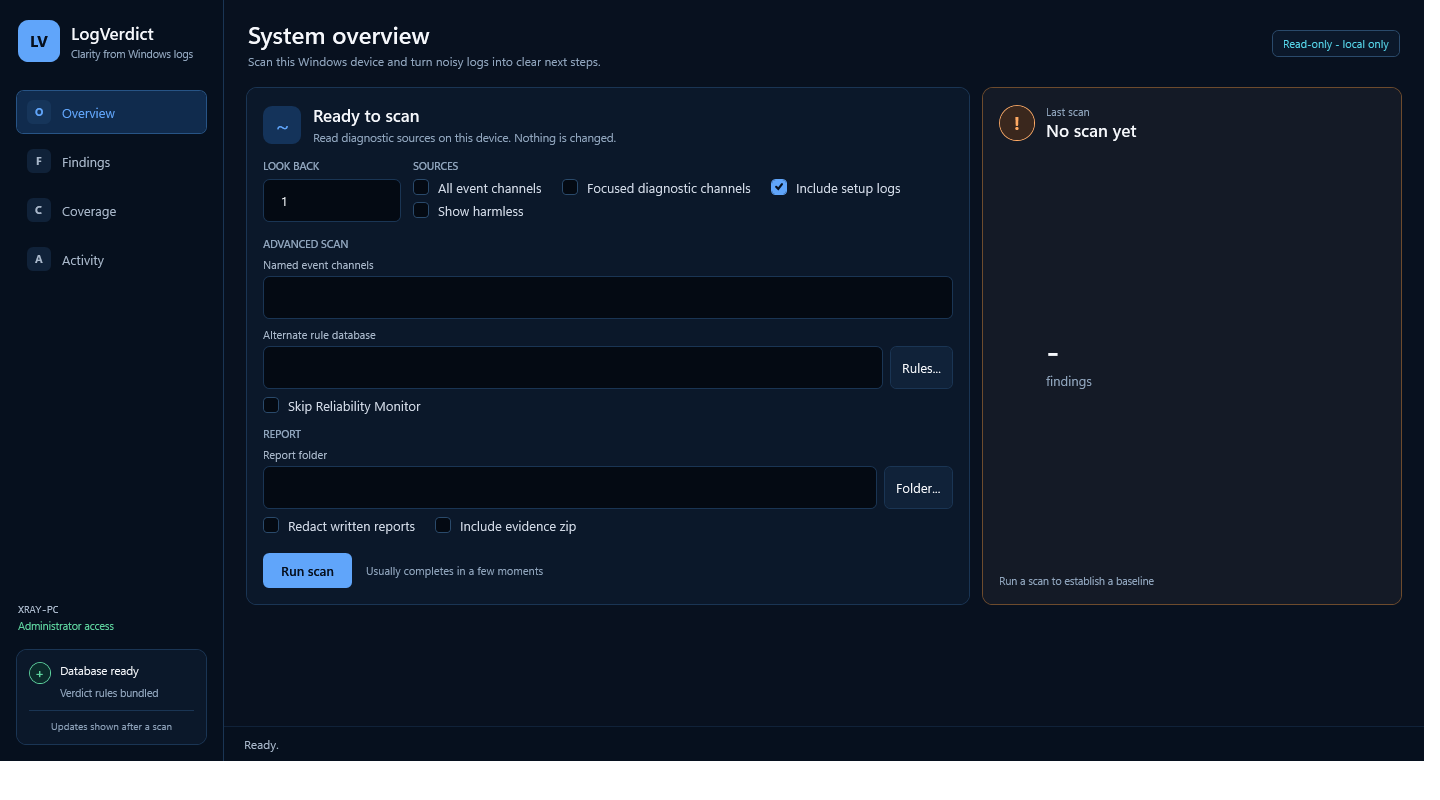
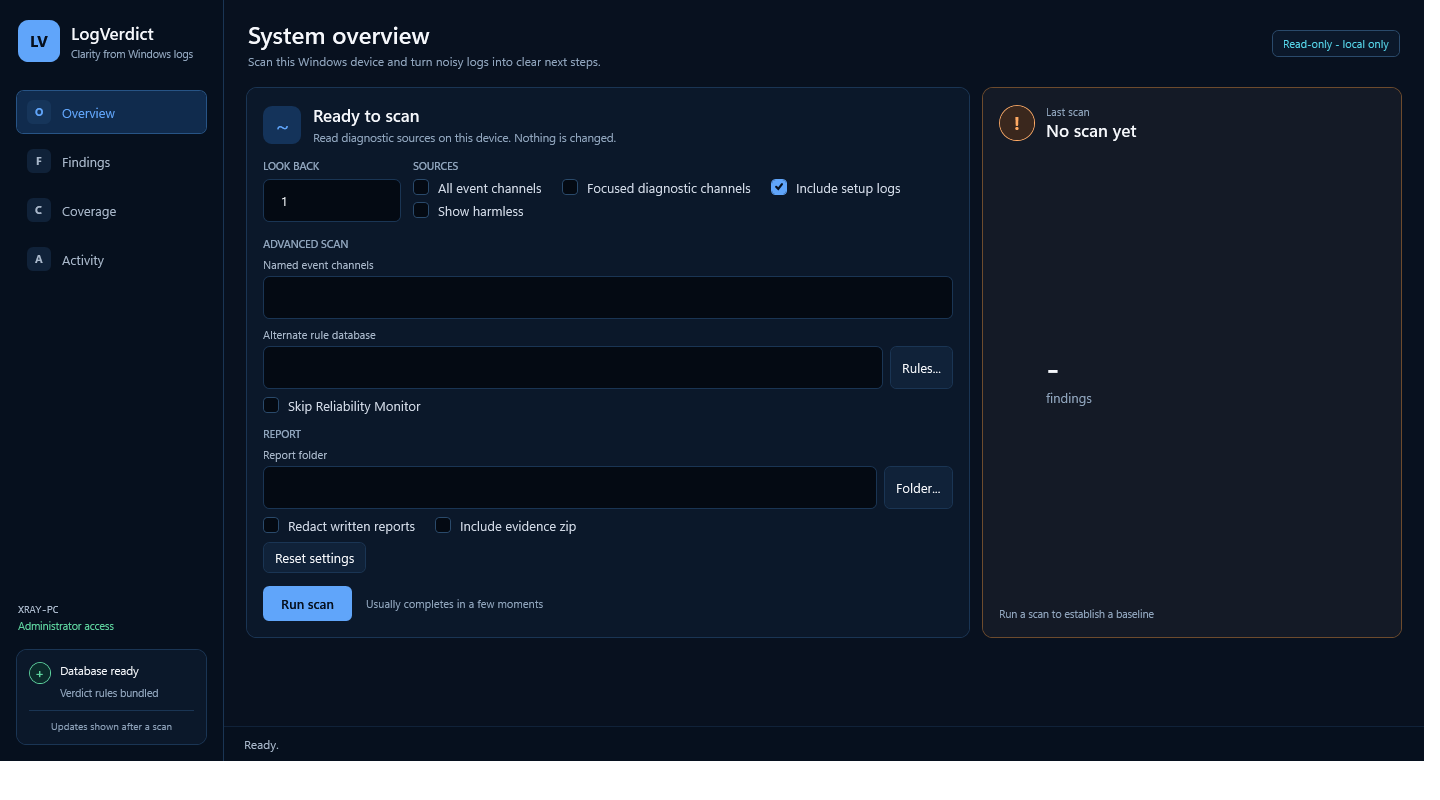
feat(gui): add settings reset and support matrix

Changed region(s): [[0.1562, 0.6875, 0.375, 0.7812], [0.6875, 0.7188, 0.8125, 0.7812], [0.7188, 0.4688, 0.75, 0.5]]

diff --git a/README.md b/README.md
@@ -408,6 +408,19 @@ Windows 10/11. Windows PowerShell 5.1 (stock) or PowerShell 7.x. **No dependenci
 
 Runs without admin; elevation unlocks the Security channel and some text logs.
 
+### Support matrix
+
+| Area | Supported behavior | Recovery or verification |
+|---|---|---|
+| Windows | Windows 10 and Windows 11; event channels and diagnostic text logs are read locally | Start with `LogVerdict-GUI.exe` or `Invoke-LogVerdict.ps1 -DaysBack 30` |
+| PowerShell | Windows PowerShell 5.1 (stock) and PowerShell 7.x; the GUI uses an STA thread for WPF | Run `Tools\Test-LogVerdictGui.ps1 -Theme Normal -ScalePercent 125` |
+| Elevation | Optional; standard access reports unreadable Security/setup sources instead of calling the result clean | Use the GUI's **Restart as administrator** action, or rerun the console from an elevated PowerShell |
+| SetupDiag | Optional; only an existing Microsoft-signed executable is used, otherwise built-in Panther rules remain active | Treat a rejected or missing candidate as a coverage gap, not an install failure |
+| WEF | Optional, module-only health context; no fleet agent or remote connection is required | Use `Watch-LogVerdict -IncludeWEFHealth` when the Windows Event Collector service is in scope |
+| Accessibility | Normal and Windows High Contrast themes are covered at 125% display scaling; navigation and reset controls expose UI Automation names | Run `Tools\Test-LogVerdictGui.ps1 -Theme HighContrast -ScalePercent 125` |
+| GUI preferences | The Overview page's **Reset settings** button restores 30 days, focused defaults, a 1440x800 window, and clears transient source/report fields | If the GUI cannot open, remove `%LOCALAPPDATA%\LogVerdict\settings.json` and relaunch |
+| Distribution | The module and unsigned packaged executables use the same engine and embedded data; no runtime package dependency is required | Run `Tools\Test-LogVerdictRelease.ps1` for offline version, catalog, manifest, and documentation checks |
+
 Every scan probes each channel for readability before reading it, and reports what it could **not** see under "what this scan could not see": channels denied by ACL, channels whose metadata would not enumerate, channels truncated at the per-channel record cap, and requested channels that do not exist. This matters because `Get-WinEvent -FilterHashtable` reports a denied channel identically to an empty one - a scan that trusts that path would tell you a channel is clean when it was never allowed to open it.
 
 Readable event channels also carry sequence coverage notes. A discontinuity in observed `RecordId` values or a

diff --git a/CHANGELOG.md b/CHANGELOG.md
@@ -6,6 +6,9 @@ The format follows [Keep a Changelog](https://keepachangelog.com/en/1.1.0/), and
 
 ## Unreleased
 
+- Added a user-visible GUI settings reset that atomically restores safe scan defaults,
+  resets the window size and transient source/report fields, and reports persistence failures;
+  documented the Windows/runtime/elevation/optional-tool support matrix and recovery command.
 - Replaced volatile README scan totals with stable product language and regenerated the GUI
   screenshot from the packaged WPF visual tree; release validation now checks the screenshot
   hash, version metadata, current rule/catalog examples, and runtime GUI version binding.
